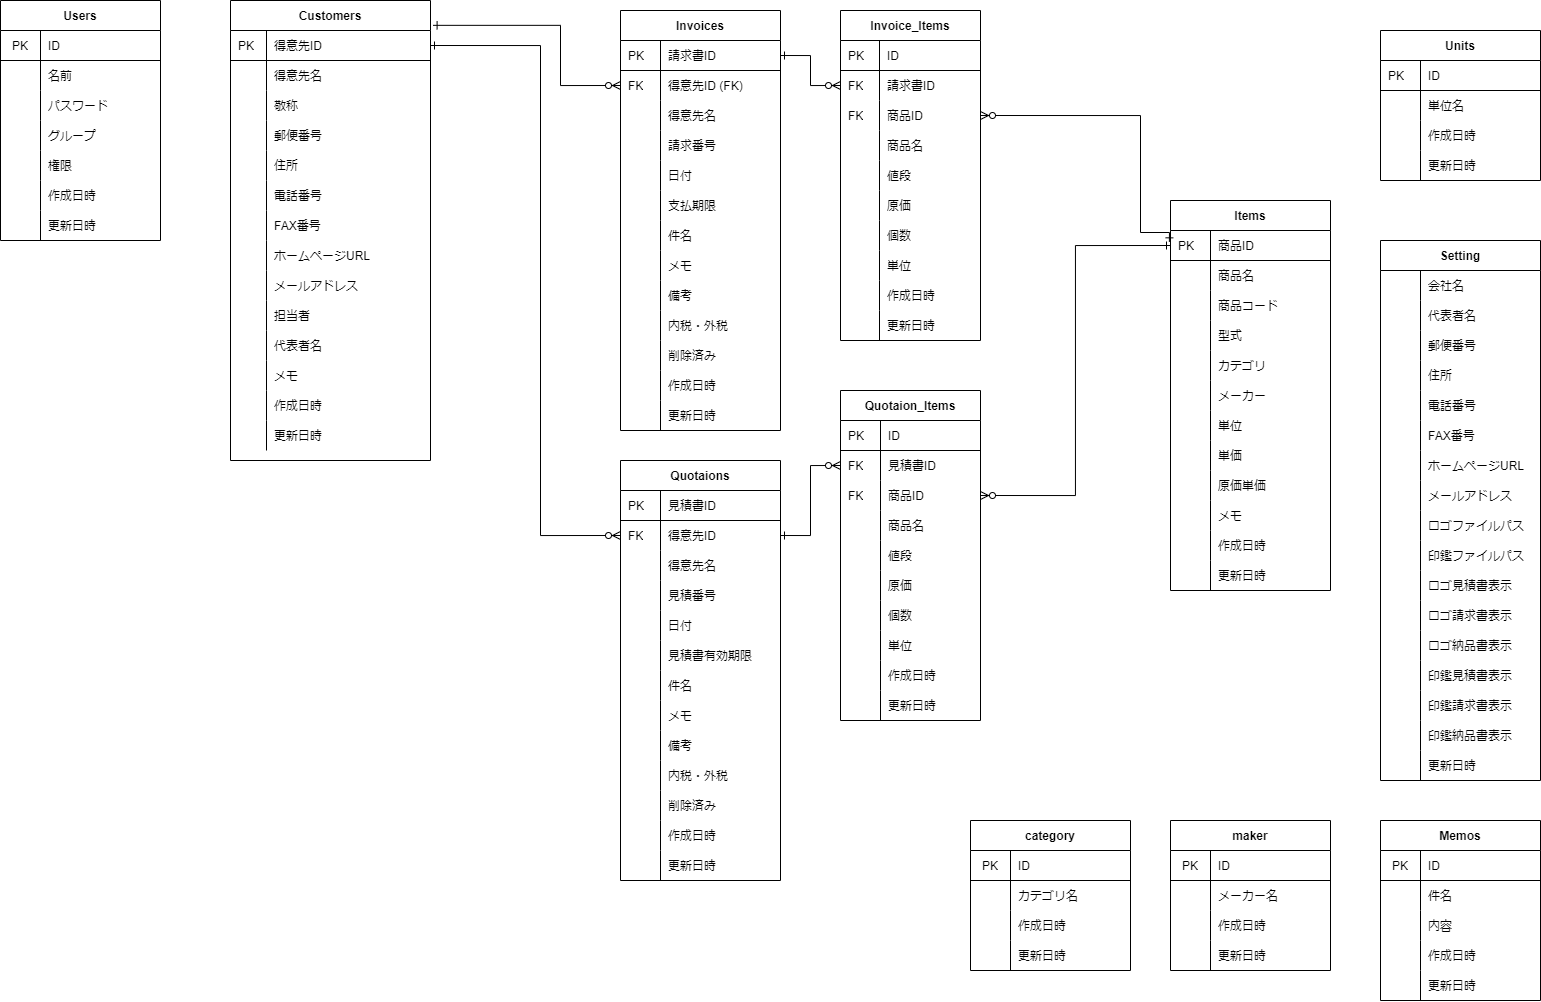
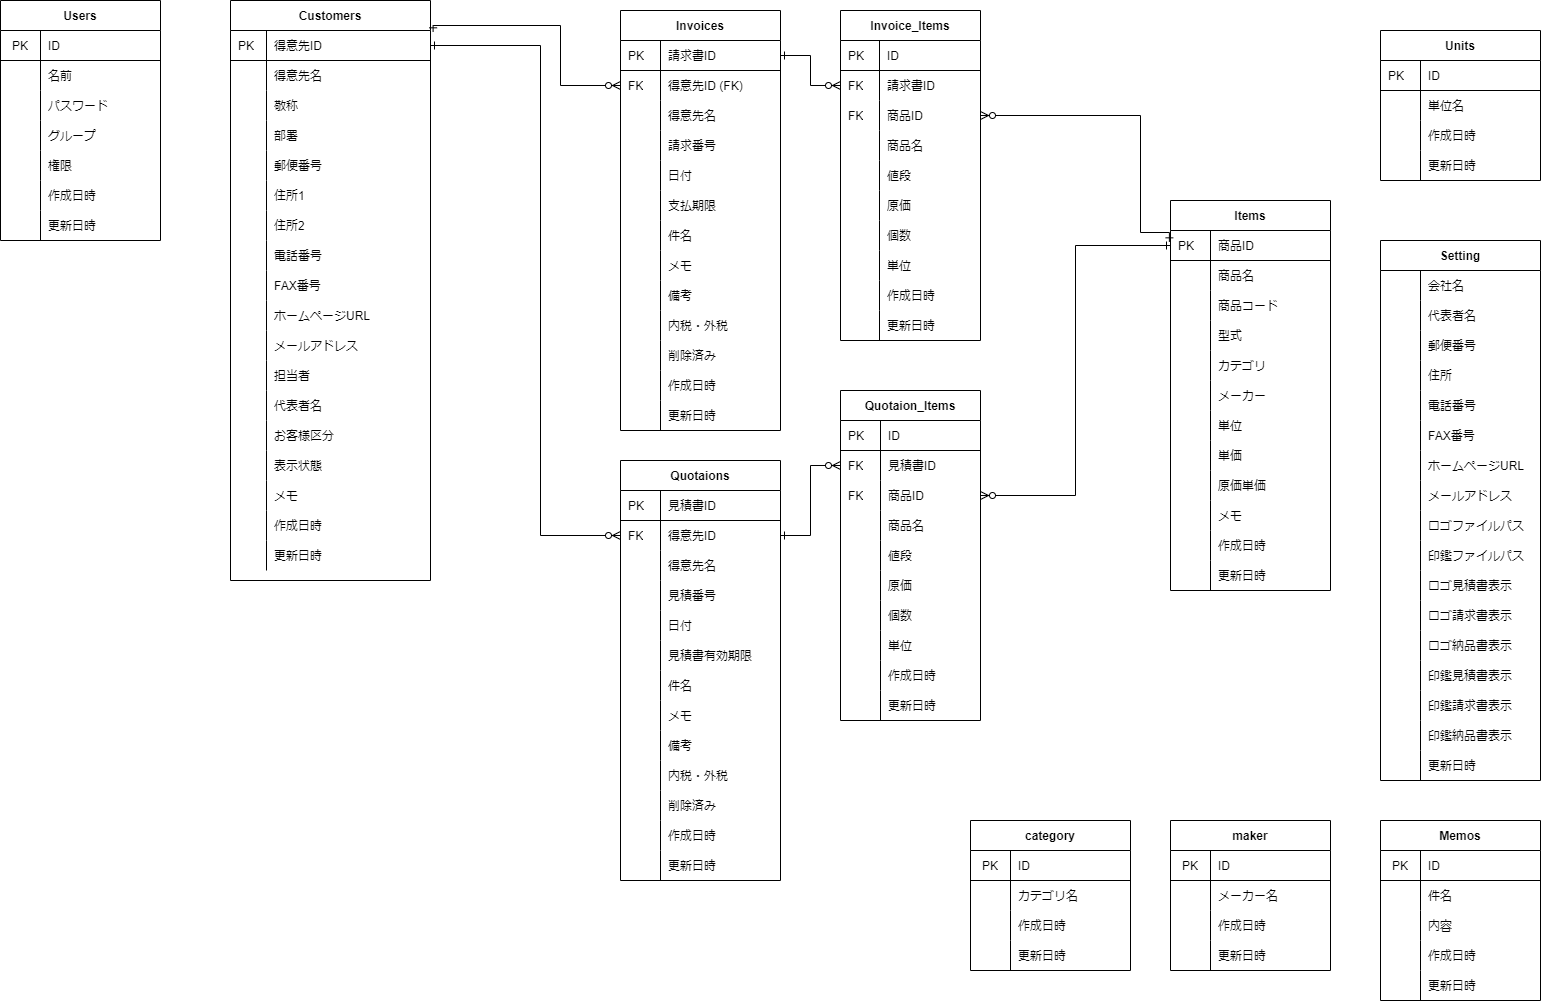
Customerにカラム追加。フロント修正

diff --git a/app/templates/customer.html b/app/templates/customer.html
@@ -159,6 +159,13 @@
                             </b-row>
                             <b-row>
                                 <b-col sm>
+                                    <b-form-group label-cols="4" label-cols-lg="2" label-size="sm" label="部署"
+                                        label-for="department">
+                                        <b-form-input v-model="customer.department" id="department" size="sm">
+                                        </b-form-input>
+                                    </b-form-group>
+                                </b-col>
+                                <b-col sm>
                                     <b-form-group label-cols="4" label-cols-lg="2" label-size="sm" label="郵便番号"
                                         label-for="postNumber">
                                         <b-form-input v-model="customer.postNumber" id="postNumber" size="sm"
@@ -166,10 +173,19 @@
                                         </b-form-input>
                                     </b-form-group>
                                 </b-col>
+                            </b-row>
+                            <b-row>
                                 <b-col sm>
-                                    <b-form-group label-cols="4" label-cols-lg="2" label-size="sm" label="住所"
+                                    <b-form-group label-cols="4" label-cols-lg="2" label-size="sm" label="住所1"
                                         label-for="address">
                                         <b-form-input v-model="customer.address" id="address" size="sm">
+                                        </b-form-input>
+                                    </b-form-group>
+                                </b-col>
+                                <b-col sm>
+                                    <b-form-group label-cols="4" label-cols-lg="2" label-size="sm" label="住所2"
+                                        label-for="address">
+                                        <b-form-input v-model="customer.addressSub" id="address" size="sm">
                                         </b-form-input>
                                     </b-form-group>
                                 </b-col>
@@ -219,6 +235,24 @@
                                         label-for="manager">
                                         <b-form-input v-model="customer.manager" id="manager" size="sm">
                                         </b-form-input>
+                                    </b-form-group>
+                                </b-col>
+                            </b-row>
+                            <b-row>
+                                <b-col sm>
+                                    <b-form-group label-cols="4" label-cols-lg="2" label-size="sm" label="お客様区分"
+                                        label-for="customerCategory">
+                                        <b-form-radio-group required v-if="" v-model="customer.customerCategory"
+                                            id="customerCategory" :options="[
+                                            {  text: '法人', value: 'corporation' },
+                                            {  text: '個人', value: 'individual' },
+                                            ]"></b-form-radio-group>
+                                    </b-form-group>
+                                </b-col>
+                                <b-col sm>
+                                    <b-form-group label-cols="4" label-cols-lg="2" label-size="sm" label="表示しない"
+                                        label-for="isHide">
+                                        <b-form-checkbox v-model="customer.isHide"></b-form-checkbox>
                                     </b-form-group>
                                 </b-col>
                             </b-row>

diff --git a/app/seeder.py b/app/seeder.py
@@ -32,12 +32,18 @@ def seeder():
     # -------------Customers---------------
     print('----Customers----')
     customers = [
-        Customer(id=1, customerName="○○株式会社", honorificTitle='御中', postNumber='000-0000', address='鹿沼市板荷000', telNumber='000-0000-0000',
-                 faxNumber='000-0000-0000', url='example.com', email='example@co.jp', manager='田中太郎', representative='田中代表', memo='これは○○株式会社のメモです',),
-        Customer(id=2, customerName="○○有限会社", honorificTitle='御中', postNumber='111-1111', address='鹿沼市板荷111', telNumber='111-1111-1111',
-                 faxNumber='111-1111-1111', url='example.com', email='example@co.jp', manager='田中次郎', representative='田中代表', memo='これは○○有限会社のメモです',),
-        Customer(id=3, customerName="○○商事", honorificTitle='御中', postNumber='222-2222', address='鹿沼市板荷222', telNumber='222-2222-2222',
-                 faxNumber='222-2222-2222', url='example.com', email='example@co.jp', manager='田中三郎', representative='田中代表', memo='これは○○商事のメモです',)
+        Customer(id=1, customerName="○○株式会社", honorificTitle='御中', department='部署名', postNumber='000-0000',
+                 address='鹿沼市板荷', addressSub='000', telNumber='000-0000-0000', faxNumber='000-0000-0000', url='example.com',
+                 email='example@co.jp', manager='田中太郎', representative='田中代表', customerCategory='corporation', isHide=False,
+                 memo='これは○○株式会社のメモです',),
+        Customer(id=2, customerName="○○有限会社", honorificTitle='御中', department='部署名', postNumber='111-1111',
+                 address='鹿沼市板荷', addressSub='111', telNumber='111-1111-1111', faxNumber='111-1111-1111', url='example.com',
+                 email='example@co.jp', manager='田中次郎', representative='田中代表', customerCategory='corporation', isHide=False,
+                 memo='これは○○有限会社のメモです',),
+        Customer(id=3, customerName="○○商事", honorificTitle='御中', department='部署名', postNumber='222-2222',
+                 address='鹿沼市板荷', addressSub='222', telNumber='222-2222-2222', faxNumber='222-2222-2222', url='example.com',
+                 email='example@co.jp', manager='田中三郎', representative='田中代表', customerCategory='corporation', isHide=False,
+                 memo='これは○○商事のメモです',)
     ]
     db.session.add_all(customers)
     db.session.commit()

diff --git a/app/api.py b/app/api.py
@@ -5,11 +5,6 @@ import json
 from datetime import date
 
 
-#@app.route('/')
-#def index():
-#    return 'HelloWorld!'
-
-
 # -----ユーザー(Users)-----
 @app.route('/users', methods=['GET'])
 def user_index():
@@ -86,14 +81,18 @@ def customer_create():
     newCustomer = Customer(
         customerName=data.get('customerName'),
         honorificTitle=data.get('honorificTitle'),
+        department=data.get('department'),
         postNumber=data.get('postNumber'),
         address=data.get('address'),
+        addressSub=data.get('addressSub'),
         telNumber=data.get('telNumber'),
         faxNumber=data.get('faxNumber'),
         url=data.get('url'),
         email=data.get('email'),
         manager=data.get('manager'),
         representative=data.get('representative'),
+        customerCategory=data.get('customerCategory'),
+        isHide=data.get('isHide'),
         memo=data.get('memo'),
     )
     db.session.add(newCustomer)
@@ -109,14 +108,18 @@ def customer_update(id):
 
     customer.customerName = data.get('customerName')
     customer.honorificTitle = data.get('honorificTitle')
+    customer.department = data.get('department')
     customer.postNumber = data.get('postNumber')
     customer.address = data.get('address')
+    customer.addressSub = data.get('addressSub')
     customer.telNumber = data.get('telNumber')
     customer.faxNumber = data.get('faxNumber')
     customer.url = data.get('url')
     customer.email = data.get('email')
     customer.manager = data.get('manager')
     customer.representative = data.get('representative')
+    customer.customerCategory = data.get('customerCategory')
+    customer.isHide = data.get('isHide')
     customer.memo = data.get('memo')
 
     db.session.commit()
@@ -773,4 +776,4 @@ def setting_update(id):
 
 if __name__ == '__main__':
 
-    app.run(host='0.0.0.0', port=5010,debug=True)
+    app.run(host='0.0.0.0', port=5010, debug=True)

diff --git a/app/models.py b/app/models.py
@@ -28,14 +28,19 @@ class Customer(db.Model):
     id = db.Column(db.Integer, primary_key=True)
     customerName = db.Column(db.String)
     honorificTitle = db.Column(db.String)
+    department = db.Column(db.String)
     postNumber = db.Column(db.String(20))
     address = db.Column(db.String)
+    addressSub = db.Column(db.String)
     telNumber = db.Column(db.String(30))
     faxNumber = db.Column(db.String(30))
     url = db.Column(db.String)
     email = db.Column(db.String)
     manager = db.Column(db.String)
     representative = db.Column(db.String)
+    customerCategory = db.Column(
+        db.String, nullable=False, default='corporation')
+    isHide = db.Column(db.Boolean, nullable=False, default=False)
     memo = db.Column(db.String)
     createdAt = db.Column(db.DateTime, nullable=False, default=datetime.now)
     updatedAt = db.Column(db.DateTime, nullable=False,

diff --git a/models.md b/models.md
@@ -19,14 +19,18 @@
 | id              | id              | integer    |                                   | 
 | customerName    | 得意先名         | text       |                                   | 
 | honorificTitle  | 敬称            | text       |                                   | 
+| department      | 部署            | text       |                                   | 
 | postNumber      | 郵便番号        | string(20) |  ハイフンが入ると思ったのでstring | 
-| address         | 住所            | text       |                                   | 
+| address         | 住所1           | text       |                                   | 
+| addressSub      | 住所2           | text       |                                   | 
 | telNumber       | 電話番号         | string(30) |  ハイフンが入ると思ったのでstring | 
 | faxNumber       | FAX番号         | string(30) |  ハイフンが入ると思ったのでstring | 
 | url             | ホームページURL  | text       |                                   | 
 | email           | メールアドレス   | text       |                                   | 
 | manager         | 担当者          | text       |                                   |
 | representative  | 代表者名        | text       |                                   | 
+| customerCategory| お客様区分      | text       |  個人か法人か                      | 
+| isHide          | 表示状態        | boolean    |  得意先情報を隠すかどうか          | 
 | memo            | メモ            | text       |                                   |
 | createdAt       | 作成日時        | datetime   |  作成日時                          |
 | updatedAt       | 更新日時        | datetime   |  更新日時                          | 
